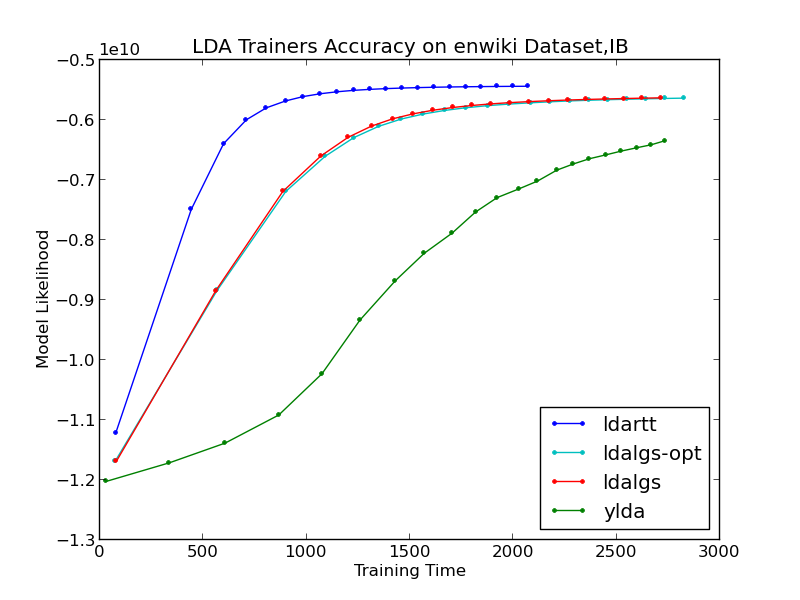
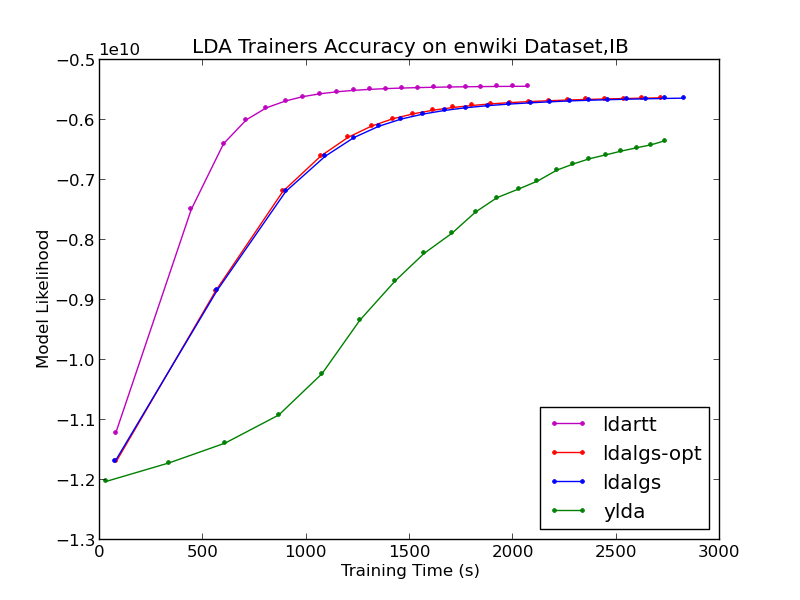
update accuracy and overall_time figs

diff --git a/src/analysis/plot_perf.py b/src/analysis/plot_perf.py
@@ -154,6 +154,8 @@ class PlotEngine():
         self.init_subplot(1,1)
         self.set_subplot(1,1)
 
+        self.colors=['m', 'r','b','g','c','k','y']
+
     def init_data(self, datadir, perfname):
         """
         perfdata is PerfData object
@@ -195,6 +197,16 @@ class PlotEngine():
     def savefig(self, figname):
         plt.savefig(figname)
 
+
+    def autolabel(self, rects):
+        # attach some text labels
+        for rect in rects:
+            height = rect.get_height()
+            self.curax.text(rect.get_x()+rect.get_width()/2., 1.01*height, '%d'%int(height),
+                ha='center', va='bottom')
+
+
+    ######################3
     def plot(self, plotname, fig, conf):
         if plotname in self.ploters:
             return self.ploters[plotname](fig, conf)
@@ -239,25 +251,28 @@ class PlotEngine():
         ind = np.array([0,0.3])
         width = 0.05       # the width of the bars
 
-        colors=['r','b','y','c']
-
         #fig, ax = plt.subplots()
 
         grp_size = len(overall_time)/2
+        rects = []
         for idx in range(grp_size):
             logger.info('val=%d, label=%s', overall_time[idx][0], overall_time[idx][1])
             grp_data = ( overall_time[idx][0], overall_time[idx+grp_size][0] )
             logger.info('val = %s, label=%s', grp_data, overall_time[idx][1])
             # ax.bar(ind + width*idx, overall_time[idx][0], width, label = overall_time[idx][1])
-            self.curax.bar(ind + width*idx, grp_data, width, color=colors[idx], label = overall_time[idx][1])
+            rects.append(self.curax.bar(ind + width*idx, grp_data, width, color=self.colors[idx], label = overall_time[idx][1]))
 
-        self.curax.set_ylabel('runtime (ms)')
+        self.curax.set_ylabel('runtime (s)')
         if 'title' in conf:
             self.curax.set_title(conf['title'])
         else:
             self.curax.set_title('Overall Performance of LDA Trainers')
         self.curax.set_xticks(ind+width)
         self.curax.set_xticklabels( ('ib', 'eth') )
+
+
+        for rect in rects:
+            self.autolabel(rect)
 
         #ax.set_ylim(0, overall_time[0][0] * 2)
         #ax.legend( (rects1[0], rects2[0]), ('Men', 'Women') )
@@ -318,7 +333,6 @@ class PlotEngine():
                         self.perfdata[runtime_name][2,2:] + offset,
                         self.perfdata[lh_name][:,1], label))
 
-        colors=['r','b','m','g','c','k','y']
 
         #fig, ax = plt.subplots()
 
@@ -337,7 +351,7 @@ class PlotEngine():
                 x = accuracy[idx][1][x_int - 1 ]
                 self.curax.set_ylabel('runtime (s)')
 
-            self.curax.plot(x, accuracy[idx][2], colors[idx]+'.-', label = accuracy[idx][3])
+            self.curax.plot(x, accuracy[idx][2], self.colors[idx]+'.-', label = accuracy[idx][3])
 
         #self.curax.set_ylabel('Model Perplexity')
         self.curax.set_ylabel('Model Likelihood')

diff --git a/src/analysis/plot_overall.py b/src/analysis/plot_overall.py
@@ -28,17 +28,7 @@ def call_plot(plotname, datadir, namefile, figname, title):
     ploter.init_data(datadir, perfname)
     ploter.plot(plotname, figname, conf)
 
-
-if __name__ == "__main__":
-    program = os.path.basename(sys.argv[0])
-    logger = logging.getLogger(program)
-
-    # logging configure
-    import logging.config
-    logging.basicConfig(format='%(asctime)s : %(levelname)s : %(message)s')
-    logging.root.setLevel(level=logging.DEBUG)
-    logger.info("running %s" % ' '.join(sys.argv))
-
+def draw_single():
     # output four figures
     ploter.init_subplot(1,1)
     ploter.set_subplot(1,1)
@@ -53,8 +43,13 @@ if __name__ == "__main__":
     ploter.set_subplot(1,1)
     call_plot('overall_runtime', 'data', 'overall_runtime.enwiki', 'overall_runtime.enwiki.png', "Overall RunTime on Enwiki Dataset")
 
-    # output (2,2) subplots
+
+def draw_all():
     ploter.init_subplot(2,2)
+    ploter.fig.suptitle("LDA Trainers Overall Excution Time")
+    ploter.fig.set_size_inches(9.25*1.5, 5.25*1.5)
+
+    # output (2,2) subplots
     ploter.set_subplot(1,1)
     call_plot('overall_traintime', 'data', 'overall_runtime.clueweb', '', "Overall TrainTime on Clueweb Dataset")
     ploter.set_subplot(1,2)
@@ -65,3 +60,16 @@ if __name__ == "__main__":
     call_plot('overall_runtime', 'data', 'overall_runtime.enwiki', '', "Overall RunTime on Enwiki Dataset")
     ploter.savefig('overall_all.png')
 
+if __name__ == "__main__":
+    program = os.path.basename(sys.argv[0])
+    logger = logging.getLogger(program)
+
+    # logging configure
+    import logging.config
+    logging.basicConfig(format='%(asctime)s : %(levelname)s : %(message)s')
+    logging.root.setLevel(level=logging.DEBUG)
+    logger.info("running %s" % ' '.join(sys.argv))
+
+    draw_single()
+
+    draw_all()

diff --git a/src/analysis/plot_accuracy.py b/src/analysis/plot_accuracy.py
@@ -138,8 +138,8 @@ if __name__ == "__main__":
     logging.root.setLevel(level=logging.DEBUG)
     logger.info("running %s" % ' '.join(sys.argv))
 
-#draw_single()
-#   draw_all()
+    draw_single()
+    draw_all()
 
     draw_enwiki_overall()
 
